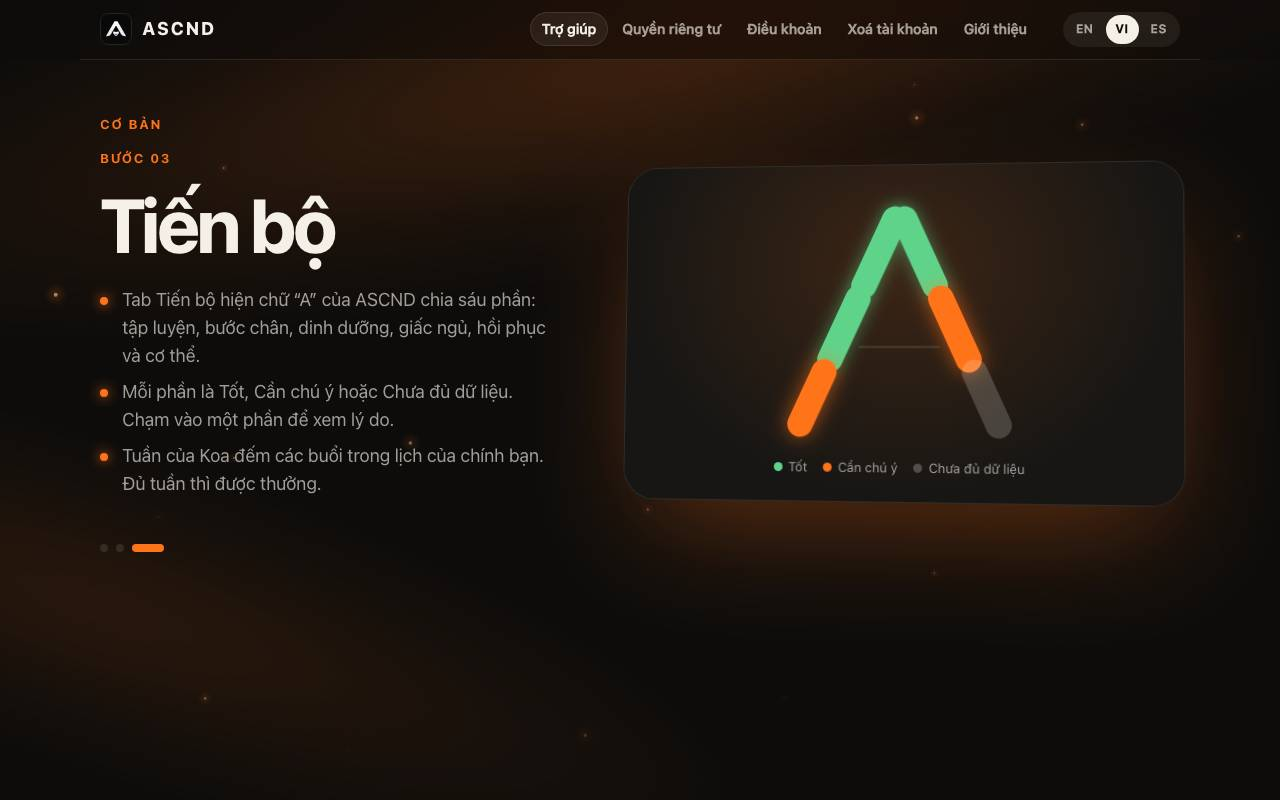
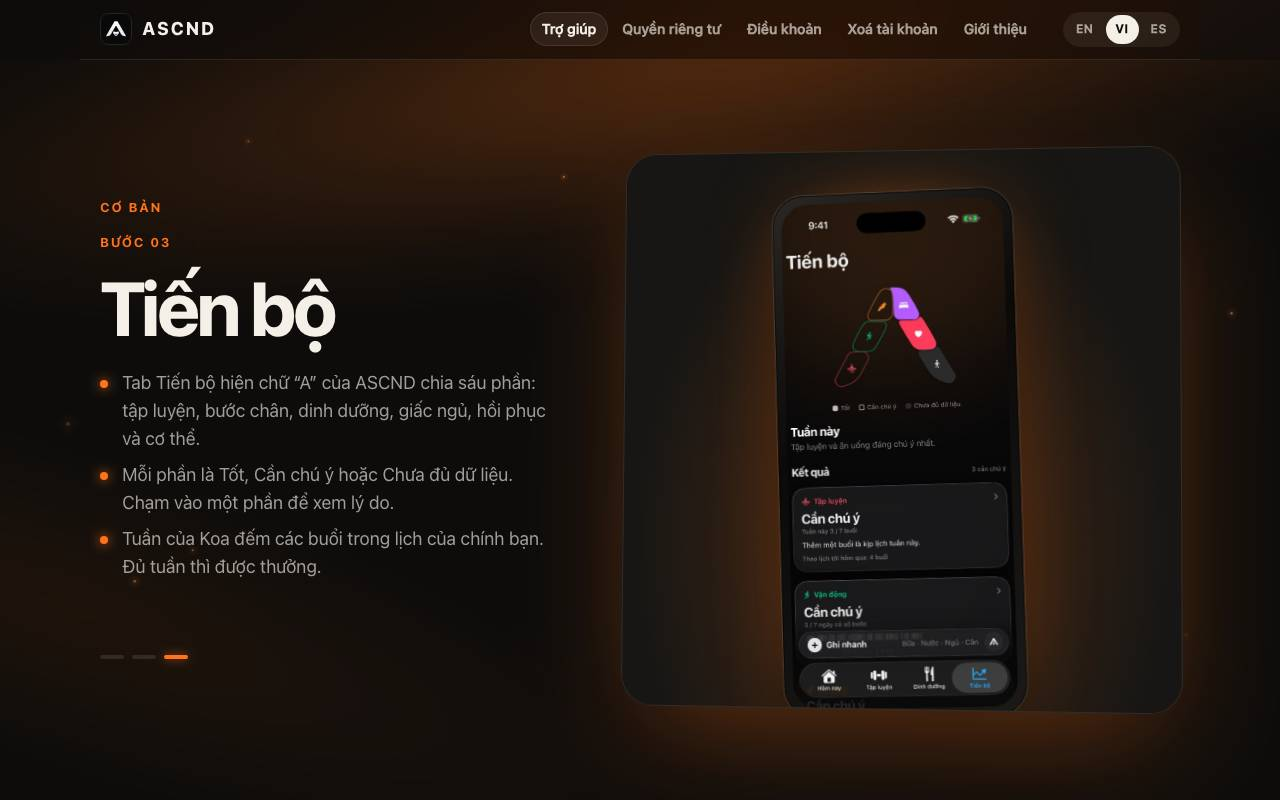
feat(site): ảnh màn hình app thật trong khung iPhone thay hình tự vẽ (#527)
Kiệt cho tạo ảnh riêng thay ảnh có sẵn (23/10). Máy chưa có công cụ tạo
ảnh AI, nên chụp màn hình thật trên simulator (tài khoản test, vi/en/es,
thanh trạng thái 9:41), làm mờ chữ viết tắt tên tài khoản, đặt trong khung
iPhone vẽ bằng CSS: landing dùng Hôm nay / Dinh dưỡng / Tiến bộ, Trợ giúp
dùng Dinh dưỡng / Tiến bộ. Bỏ chữ A tự vẽ (khác chữ A thật của app) và ảnh
không dùng. Script chụp lại: apps/site/tools/capture-app-screens.sh.

diff --git a/apps/site/src/style.css b/apps/site/src/style.css
@@ -207,7 +207,11 @@ html:not(.js) .main > .intro + *, html.still .main > .intro + * { margin-top: 0;
 .story__visual { perspective: 1400px; }
 .story__frame {
   position: relative;
-  aspect-ratio: 638 / 384;
+  /* Vuông, cao theo màn hình: iPhone trong khung đủ lớn để đọc được. */
+  aspect-ratio: 1;
+  height: min(70vh, 640px);
+  max-width: 100%;
+  margin-inline: auto;
   border-radius: 32px;
   overflow: hidden;
   border: 1px solid var(--line);
@@ -217,23 +221,18 @@ html:not(.js) .main > .intro + *, html.still .main > .intro + * { margin-top: 0;
 }
 .story__layer { position: absolute; inset: 0; opacity: var(--v, 1); }
 .story__img { width: 100%; height: 100%; object-fit: cover; display: block; transform: scale(calc(1.16 - var(--local, 1) * 0.16)); }
-.a-mark { position: absolute; inset: 0; display: grid; place-items: center; align-content: center; gap: 12px; background: radial-gradient(ellipse at 50% 30%, rgb(255 115 25 / 0.16), var(--sheet) 70%); }
-.a-mark svg { width: 46%; height: auto; overflow: visible; }
-.a-bar { stroke: var(--line); stroke-width: 3; stroke-linecap: round; }
-.seg {
-  fill: none; stroke-width: 30; stroke-linecap: round;
-  stroke-dasharray: 100;
-  stroke-dashoffset: calc(100 - clamp(0, (var(--local, 1) * 8 - var(--j) - 0.6) * 100, 100));
+/* Khung iPhone cho ảnh màn hình thật của app: trượt lên và dựng thẳng dần theo cuộn của bước. */
+.story__layer--phone { background: radial-gradient(ellipse at 50% 70%, rgb(255 115 25 / 0.24), var(--sheet) 68%); }
+.phone {
+  position: absolute; top: 3%; left: 50%;
+  height: 94%; width: auto; aspect-ratio: 590 / 1281;
+  padding: 1.6%;
+  border-radius: 13% / 6%;
+  background: linear-gradient(145deg, #2a2724, #0b0a09 40%, #1c1a18);
+  box-shadow: 0 0 0 1px rgb(255 255 255 / 0.14), inset 0 0 0 1px rgb(0 0 0 / 0.6), 0 40px 70px -24px rgb(0 0 0 / 0.9), 0 0 90px -30px rgb(255 115 25 / 0.7);
+  transform: translateX(-50%) translateY(calc((1 - var(--local, 1)) * 10%)) rotate(calc((1 - var(--local, 1)) * -4deg));
 }
-.seg--good { stroke: var(--ok); filter: drop-shadow(0 0 10px rgb(95 211 138 / 0.5)); }
-.seg--warn { stroke: var(--ember); filter: drop-shadow(0 0 12px rgb(255 115 25 / 0.6)); }
-.seg--none { stroke: rgb(244 239 231 / 0.2); }
-.a-legend { list-style: none; padding: 0; margin: 0; display: flex; flex-wrap: wrap; justify-content: center; gap: 4px 16px; font-size: 13px; color: var(--muted); }
-.a-legend li { margin: 0; display: flex; align-items: center; gap: 6px; }
-.dot { width: 9px; height: 9px; border-radius: 50%; }
-.dot--good { background: var(--ok); }
-.dot--warn { background: var(--ember); }
-.dot--none { background: rgb(244 239 231 / 0.25); }
+.phone img { display: block; width: 100%; height: 100%; object-fit: cover; border-radius: 11.6% / 5.4%; }
 
 @media (max-width: 859px) {
   /* Mở đầu trên điện thoại: một nút, để vừa một màn; gợi ý cuộn thay cho "Xem cách hoạt động". */
@@ -241,7 +240,7 @@ html:not(.js) .main > .intro + *, html.still .main > .intro + * { margin-top: 0;
   .story__body { font-size: 16px; }
   .story__stage { grid-template-columns: 1fr; align-content: center; gap: 24px; padding: 112px 0 24px; }
   .story__visual { order: -1; }
-  .story__frame { border-radius: 24px; }
+  .story__frame { border-radius: 24px; height: min(44vh, 92vw); }
   .story__step h2 { font-size: 40px; margin-bottom: 12px; }
   .story__step ul { font-size: 16px; }
   .story__dots { margin-top: 16px; }

diff --git a/apps/ios/docs/CONSTRAINTS_AND_DEFERRED.md b/apps/ios/docs/CONSTRAINTS_AND_DEFERRED.md
@@ -171,6 +171,7 @@ Mỗi dòng có lý do, và điều kiện để được làm lại. **Không l
 
 ## 5. Lịch sử thay đổi sổ
 
+- 23/10/2026: trang hỗ trợ web: ảnh màn hình app thật (simulator, tài khoản test, ba ngôn ngữ) trong khung iPhone thay chữ A tự vẽ; script chụp lại `apps/site/tools/capture-app-screens.sh`.
 - 23/10/2026: trang hỗ trợ web: thêm landing ở trang gốc (Kiệt yêu cầu); sửa hạng cao nhất "Beast" → "Mass Monster" trong chữ của site.
 - 23/10/2026: trang hỗ trợ web: chuyển động theo cuộn kiểu Apple; trang Quyền riêng tư / Điều khoản ghi rõ là cùng nội dung trong app.
 - 23/10/2026: trang hỗ trợ web `apps/site` (mock chờ duyệt): sáu trang, ba ngôn ngữ; chờ email hỗ trợ, hosting, cấu hình Supabase cho đặt lại mật khẩu.
